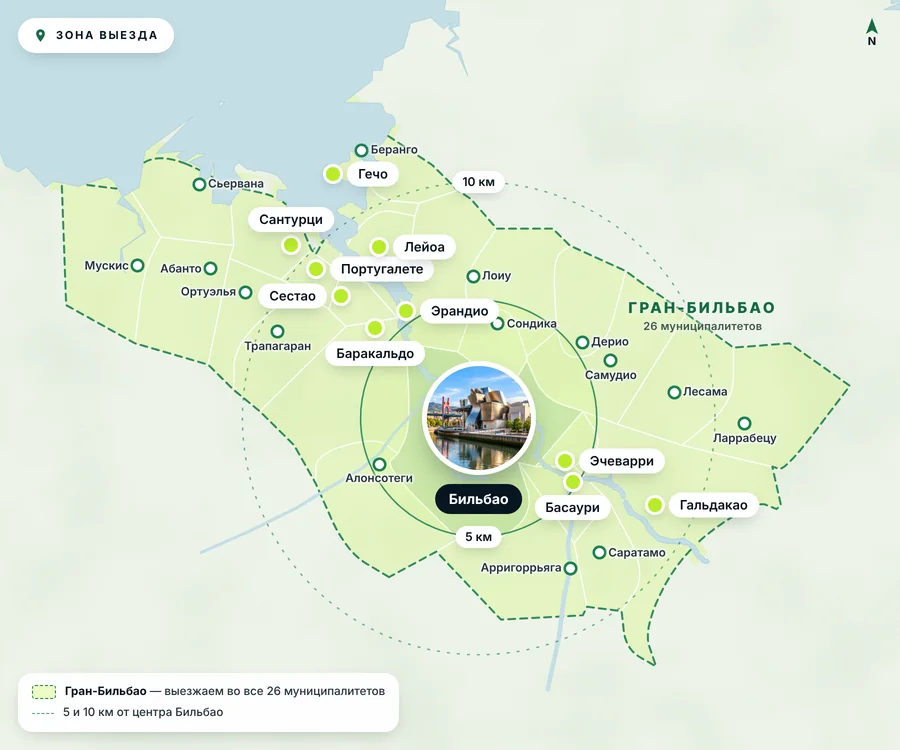
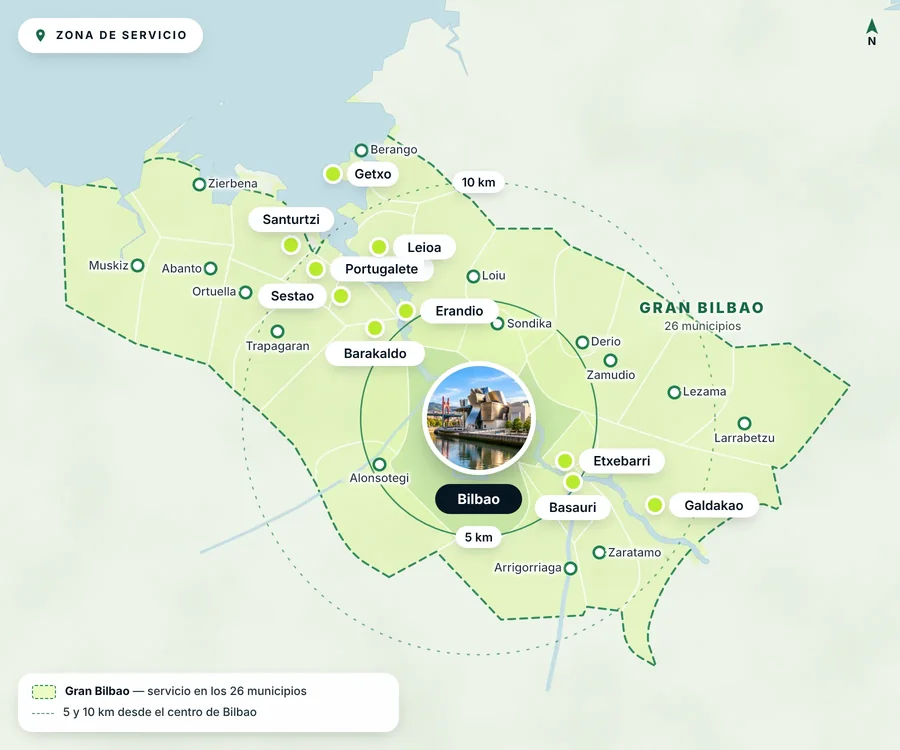
Карта зоны выезда: все подписи на испанском
- img/map-gran-bilbao(-900|-m).webp: названия городов в официальной форме
  (Getxo, Santurtzi, Barakaldo, Etxebarri…), «GRAN BILBAO / 26 municipios»,
  плашка «ZONA DE SERVICIO» (расширена под длинную подпись), «10 km / 5 km»,
  легенда на испанском. Линии и границы под старыми подписями восстановлены.
- README: заметка о языке карты.

Claude-Session: https://claude.ai/code/session_01Eg5kccR5BfBfYojTLhf5R6

diff --git a/README.md b/README.md
@@ -60,7 +60,9 @@ robots.txt, sitemap.xml
 
 Статичная картинка без интерактива: `img/map-gran-bilbao-900.webp` / `map-gran-bilbao.webp` (900×750 и 1800×1500)
 и мобильная `map-gran-bilbao-m.webp` (через `<picture>`, до 760px). На ней Бильбао, зона Гран-Бильбао (26 муниципалитетов,
-пунктирная граница), кольца 5 и 10 км, подписи городов. Нарисована по данным OpenStreetMap (береговая линия, риа и реки)
+пунктирная граница), кольца 5 и 10 км, подписи городов. Все подписи на карте — на испанском, названия муниципалитетов в официальной
+форме, как в `AREAS` из `js/main.js` (Getxo, Santurtzi, Barakaldo, Etxebarri…); `alt` у картинки пока на русском, как и весь текст страницы.
+Нарисована по данным OpenStreetMap (береговая линия, риа и реки)
 и границам муниципалитетов IGN (es-atlas) — подпись © OpenStreetMap · IGN в углу карты оставить.
 Проверка района справа работает без карты — на `AREAS` и `ZONES` из `js/main.js`.
 
